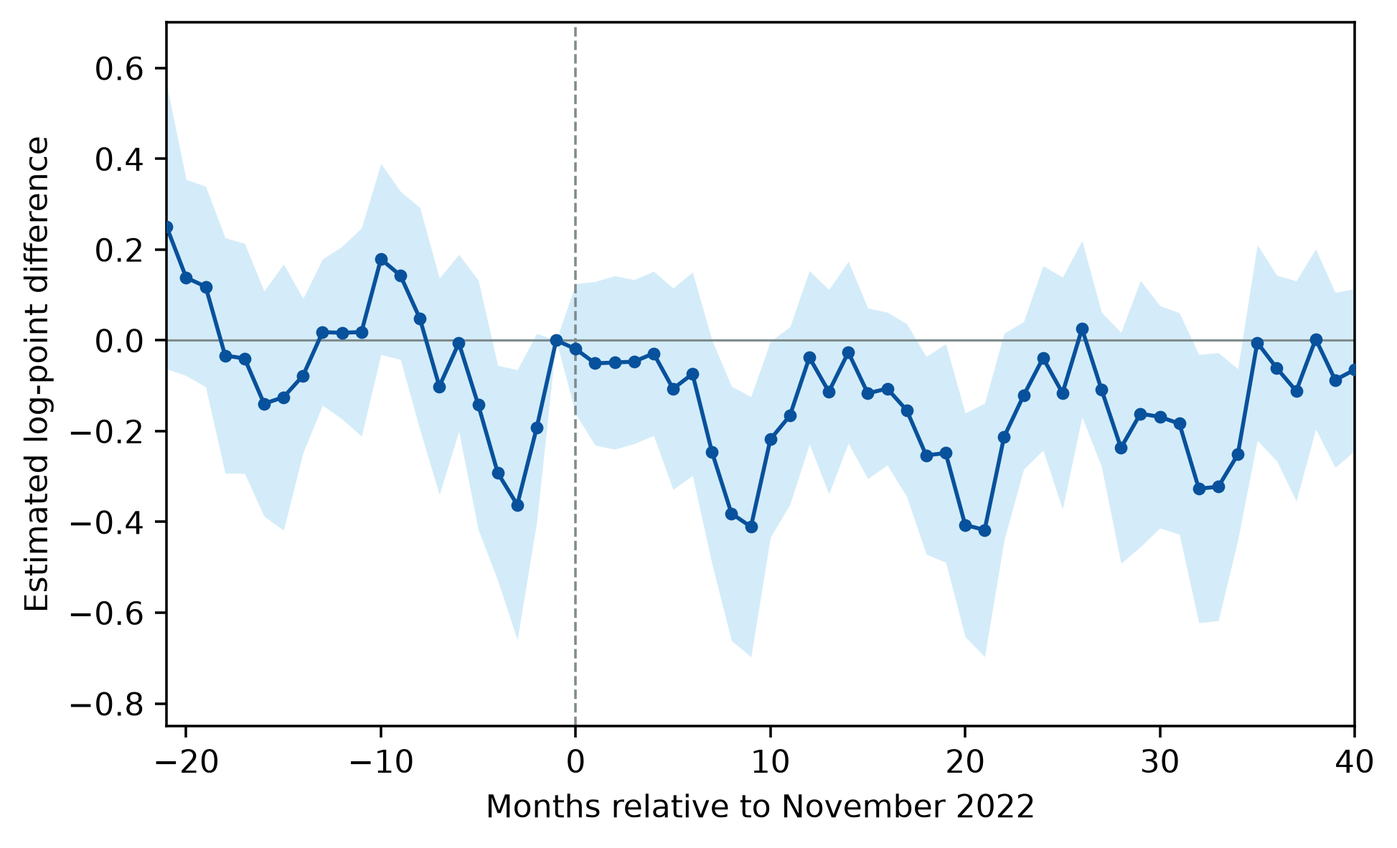
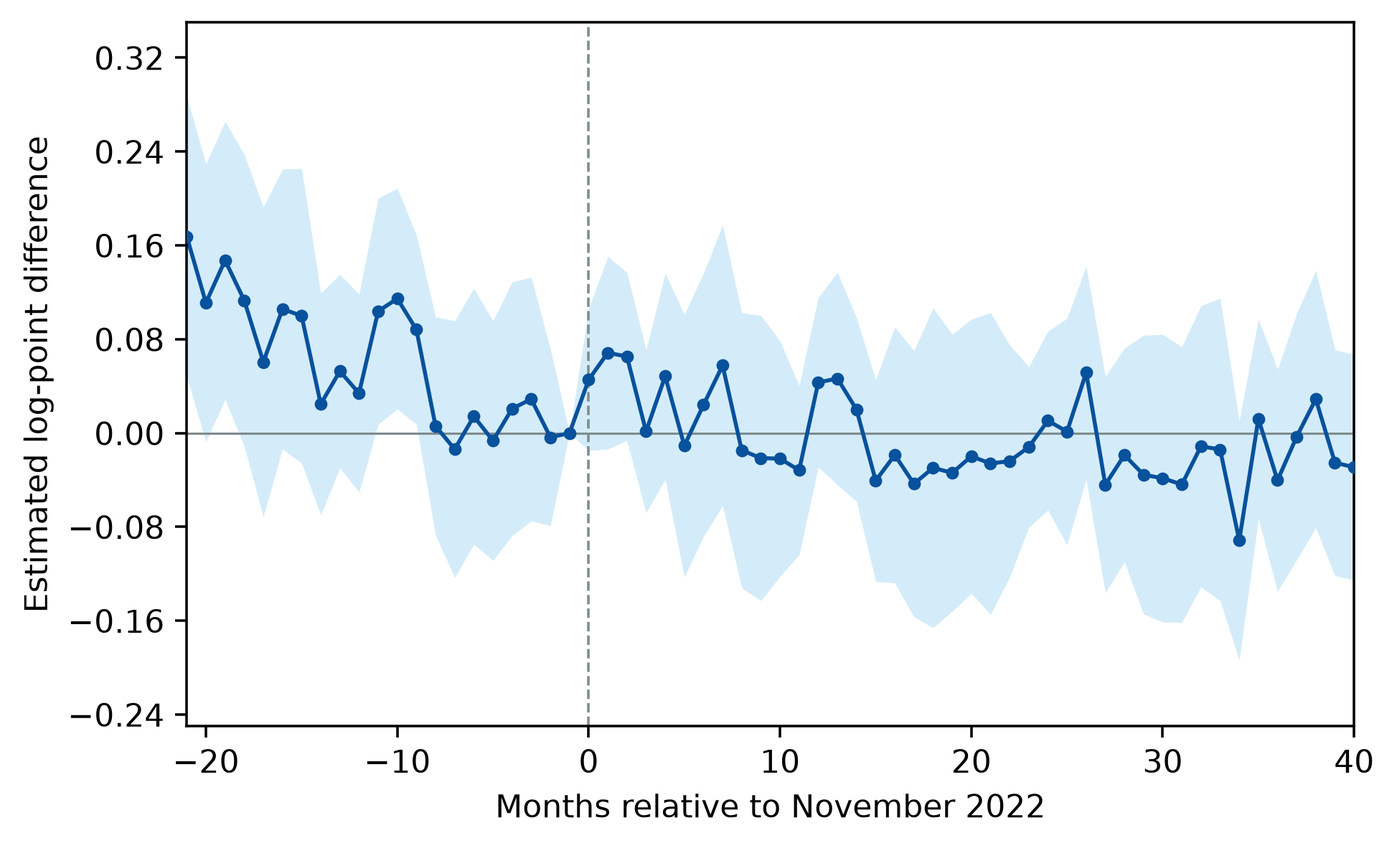
fix: re-estimate job tiers with tier 2 reference

diff --git a/paper/appendix_oe_jev_tiers.tex b/paper/appendix_oe_jev_tiers.tex
@@ -7,30 +7,30 @@ Tier 1 comprises jobs whose central output is a separable task or a weak bundle 
 
 As argued by \citet{garicano2026weak}, task bundling can offset the standard substitution channel through which AI takes over a task and reduces the revenue accruing to the worker. In strongly bundled occupations, AI can improve performance in one task while the worker retains the integrated job and a larger share of its revenue. The aggregate response of labor's share therefore depends partly on how costly it is to separate tasks within occupations: when strong bundles account for more employment, labor's share may be more resilient than task-exposure measures alone imply. This motivates examining whether post-release labor-market adjustment differs across job tiers.
 
-This empirical exercise uses a discrete DiD strategy where tier 1 and tier 2 occupations are considered the treatment groups while those in tier 3 are left as controls. Formally, the Jev categorization and treatment selection can be expressed as follows:
+This empirical exercise uses a discrete DiD strategy where tier 1 and tier 3 occupations are compared with tier 2 occupations, which form the reference group. Formally, the Jev categorization and treatment selection can be expressed as follows:
 
 Let $\tau_{jk}$ be Jev's probability for tier $k\in\{1,2,3\}$ in CNO4d occupation $j$. The assigned tier and treatment indicators are
 \begin{equation}
 \label{eq:v1_jev_tier_assignment}
-\widehat K_j=\arg\max_k\tau_{jk},\qquad D_j^r=\mathbf{1}\{\widehat K_j=r\},\quad r=1,2.
+\widehat K_j=\arg\max_k\tau_{jk},\qquad D_j^r=\mathbf{1}\{\widehat K_j=r\},\quad r\in\{1,3\}.
 \end{equation}
-Probability vectors are normalized after API rounding and ties in $\tau_{jk}$ select the smallest tier number. Tier 3 is the omitted control group.
+Probability vectors are normalized after API rounding and ties in $\tau_{jk}$ select the smallest tier number. Tier 2 is the omitted reference group.
 
 Similar to Section \ref{sec:empirical_model}, we estimate the following equation:
 
 \begin{equation}
-Y_{jt}=\mu_j+\delta_{g(j),t}+\beta^1_A D^1_jP^A_t+\beta^1_L D^1_jP^L_t+\beta^2_A D^2_jP^A_t+\beta^2_L D^2_jP^L_t+\nu_{jt}
+Y_{jt}=\mu_j+\delta_{g(j),t}+\beta^1_A D^1_jP^A_t+\beta^1_L D^1_jP^L_t+\beta^3_A D^3_jP^A_t+\beta^3_L D^3_jP^L_t+\nu_{jt}
 \label{eq:tier_static}
 \end{equation}
-where $\mu_j$ captures CNO4d occupation FE, $\delta_{g(j),t}$ denotes CNO1d-by-year-month FE, and $\nu_{jt}$ is the error term. $P^A_t$ and $P^L_t$ indicate the adjustment and later periods defined in Section~\ref{sec:empirical_model}. The coefficients measure changes for tiers 1 and 2 relative to tier 3, with standard errors clustered by CNO4d.
+where $\mu_j$ captures CNO4d occupation FE, $\delta_{g(j),t}$ denotes CNO1d-by-year-month FE, and $\nu_{jt}$ is the error term. $P^A_t$ and $P^L_t$ indicate the adjustment and later periods defined in Section~\ref{sec:empirical_model}. The coefficients measure changes for tiers 1 and 3 relative to tier 2, with standard errors clustered by CNO4d.
 
-Table~\ref{tab:v1_jev_job_tiers} presents the DiD results. For registered unemployment, column 1 reports negative coefficients for both tiers during the adjustment and later periods: \(-0.057\) and \(-0.122\) for tier 1, and \(-0.052\) and \(-0.100\) for tier 2. Restricting identification to within-CNO1d comparisons in column 2 attenuates the tier 1 coefficients to \(-0.001\) and \(-0.022\), and the tier 2 coefficients to \(-0.036\) and \(-0.097\). None of these preferred estimates is statistically distinguishable from zero. Excluding 2021 in column 3 leaves the signs negative, with coefficients of \(-0.031\) and \(-0.052\) for tier 1 and \(-0.056\) and \(-0.117\) for tier 2, again without statistically significant differences. The negative signs are consistent with lower registered unemployment in tiers 1 and 2 relative to tier 3, but the preferred specification does not establish such a response.
+Table~\ref{tab:v1_jev_job_tiers} presents the DiD results. For registered unemployment, column 1 reports coefficients of \(-0.006\) and \(-0.022\) for tier 1 and \(0.052\) and \(0.100\) for tier 3 during the adjustment and later periods, respectively. Restricting identification to within-CNO1d comparisons in column 2, the tier 1 coefficients are \(0.035\) and \(0.075\), both statistically significant, whereas the tier 3 estimates of \(0.036\) and \(0.097\) are not statistically distinguishable from zero. Excluding 2021 in column 3, the tier 1 coefficients are \(0.025\) and \(0.065\), with the latter statistically significant at the 5 percent level; the tier 3 estimates of \(0.056\) and \(0.117\) remain statistically insignificant. Thus, in the preferred specification, registered unemployment rises more in tier 1 than in tier 2, while the estimated differences for tier 3 are imprecise.
 
-The contract estimates display a similar attenuation. Column 4 reports coefficients of \(-0.221\) and \(-0.206\) for tier 1 and \(-0.106\) and \(-0.075\) for tier 2. Adding CNO1d-by-year-month FE in column 5 reduces their magnitudes to \(-0.135\) and \(-0.109\) for tier 1 and \(-0.078\) and \(-0.029\) for tier 2. The tier 1 adjustment-period estimate remains statistically significant at the 5 percent level. Excluding 2021 in column 6 further reduces the estimates to \(-0.089\) and \(-0.063\) for tier 1 and \(-0.067\) and \(-0.019\) for tier 2. None is statistically significant at the 5 percent level; only the tier 1 adjustment-period coefficient is significant at the 10 percent level, suggesting a possible reduction in new contracts after ChatGPT's release.
+The new-contract estimates show a different pattern. Column 4 reports coefficients of \(-0.116\) and \(-0.131\) for tier 1 and \(0.106\) and \(0.075\) for tier 3. Adding CNO1d-by-year-month FE in column 5, the tier 1 estimates are \(-0.057\) and \(-0.079\), both significant at the 5 percent level; the tier 3 estimates are \(0.078\) and \(0.029\), with only the adjustment-period coefficient significant at the 10 percent level. Excluding 2021 in column 6, neither tier's adjustment- or later-period estimates are statistically significant. In the preferred specification, tier 1 therefore experiences a relative decline in new contracts compared with tier 2, while the tier 3 differences are smaller and less precisely estimated.
 
-Figures~\ref{fig:v1_jev_tiers_unemployed} and~\ref{fig:v1_jev_tiers_contracts} report the corresponding event-study estimates. The pre-treatment coefficients do not remain consistently close to zero, providing less favorable evidence for the parallel-trends assumption than would be needed for a clear causal interpretation. The unemployment path is more stable for tier 2, but the joint pre-treatment test for both tiers rejects in the preferred full sample (\(p<0.001\)). Excluding 2021 improves the unemployment diagnostics, and the joint null cannot be rejected (\(p=0.475\)), although this does not establish parallel trends. For new contracts, the joint test rejects both with and without 2021 (\(p=0.037\) and \(p=0.049\), respectively). We therefore interpret the post-release coefficients cautiously as differences in occupational adjustment that may also reflect pre-existing trends.
+Figures~\ref{fig:v1_jev_tiers_unemployed} and~\ref{fig:v1_jev_tiers_contracts} report the corresponding event-study estimates relative to tier 2. The pre-treatment coefficients do not remain consistently close to zero, providing limited support for the parallel-trends assumption. The unemployment path is more stable for tier 1 than for tier 3, but the joint pre-treatment test for both comparisons rejects in the preferred full sample (\(p<0.001\)). Excluding 2021, the joint null cannot be rejected for unemployment (\(p=0.475\)), although this does not establish parallel trends. For new contracts, the joint test rejects both with and without 2021 (\(p=0.037\) and \(p=0.049\), respectively). We therefore interpret the post-release coefficients cautiously as differences in occupational adjustment that may also reflect pre-existing trends.
 
-The contrast between these negative, imprecise unemployment estimates and the positive exposure gradient in the baseline analysis could be tentatively consistent with the possibility that task bundling moderates adjustment to AI \citep{garicano2026weak}. However, the two exercises use different occupational comparisons, and the estimates in Table \ref{tab:v1_jev_job_tiers} do not clearly establish that stronger bundling protects jobs. Therefore, in order to test this mechanism, we complement these tier comparisons with a mediation exercise that conditions the baseline exposure gradient on job-tier dynamics. Table~\ref{tab:v1_job_tier_mediation} reproduces the preferred exposure specification and adds tier-by-year-month FE as controls, allowing each tier its own monthly path. For registered unemployment, the adjustment- and later-period coefficients decline from 0.012 and 0.017 to 0.010 and 0.012, respectively; neither adjusted estimate is statistically significant at the 5 percent level. For new contracts, the corresponding coefficients increase from 0.014 and 0.013 to 0.019 in both periods. The adjustment-period estimate is statistically significant at the 5 percent level, whereas the later estimate is significant at the 10 percent level. These changes suggest that tier-specific labor-market dynamics may account for part of the positive unemployment gradient and may mask a positive association between AI exposure and hiring. This pattern is consistent with the hypothesis of job bundling playing a role in occupational adjustment, although it does not identify which tier generates the change nor does it directly establish that stronger bundles protect jobs.
+The preferred tier comparisons show higher registered unemployment and fewer new contracts in tier 1 relative to tier 2, while the tier 3 differences are less precise. Given the pre-treatment evidence and the distinct occupational comparisons, these estimates do not establish that stronger bundling protects jobs. To examine whether tier-specific labor-market dynamics account for part of the baseline exposure gradient, we complement the tier comparisons with a mediation exercise. Table~\ref{tab:v1_job_tier_mediation} reproduces the preferred exposure specification and adds tier-by-year-month FE as controls, allowing each tier its own monthly path. For registered unemployment, the adjustment- and later-period coefficients decline from 0.012 and 0.017 to 0.010 and 0.012, respectively; neither adjusted estimate is statistically significant at the 5 percent level. For new contracts, the corresponding coefficients increase from 0.014 and 0.013 to 0.019 in both periods. The adjustment-period estimate is statistically significant at the 5 percent level, whereas the later estimate is significant at the 10 percent level. These changes suggest that tier-specific labor-market dynamics may account for part of the positive unemployment gradient and may mask a positive association between AI exposure and hiring. This pattern is consistent with the hypothesis of job bundling playing a role in occupational adjustment, although it does not identify which tier generates the change nor does it directly establish that stronger bundles protect jobs.
 
 \input{\tabdir/job_tiers_did_jev_v1.tex}
 \clearpage
@@ -40,16 +40,16 @@ The contrast between these negative, imprecise unemployment estimates and the po
 \label{fig:v1_jev_tiers_unemployed}
 \begin{subfigure}{0.70\textwidth}
 \includegraphics[width=\textwidth]{\figdir/JobTiers_unemployed_jev_tier1.png}
-\caption{Tier 1 relative to tier 3}
+\caption{Tier 1 relative to tier 2}
 \end{subfigure}
 \vspace{0.22cm}
 \begin{subfigure}{0.70\textwidth}
-\includegraphics[width=\textwidth]{\figdir/JobTiers_unemployed_jev_tier2.png}
-\caption{Tier 2 relative to tier 3}
+\includegraphics[width=\textwidth]{\figdir/JobTiers_unemployed_jev_tier3.png}
+\caption{Tier 3 relative to tier 2}
 \end{subfigure}
 \vspace{0.22cm}
 \begin{minipage}{0.94\textwidth}
-\footnotesize \emph{Notes:} Both tier paths are estimated jointly in one regression for the logarithm of registered unemployment. Tier 3 is the omitted control group. The specification includes CNO4 and CNO1-by-year-month FE. Coefficients are log-point differences, with no exposure scaling. October 2022 is the omitted reference month; the dashed line marks November 2022. Shaded areas are 95 percent confidence intervals with standard errors clustered by CNO4. Each graph uses its own vertical scale.
+\footnotesize \emph{Notes:} Both tier paths are estimated jointly in one regression for the logarithm of registered unemployment. Tier 2 is the omitted reference group. The specification includes CNO4 and CNO1-by-year-month FE. Coefficients are log-point differences, with no exposure scaling. October 2022 is the omitted reference month; the dashed line marks November 2022. Shaded areas are 95 percent confidence intervals with standard errors clustered by CNO4. Each graph uses its own vertical scale.
 \end{minipage}
 \end{figure}
 \clearpage
@@ -59,16 +59,16 @@ The contrast between these negative, imprecise unemployment estimates and the po
 \label{fig:v1_jev_tiers_contracts}
 \begin{subfigure}{0.70\textwidth}
 \includegraphics[width=\textwidth]{\figdir/JobTiers_contracts_jev_tier1.png}
-\caption{Tier 1 relative to tier 3}
+\caption{Tier 1 relative to tier 2}
 \end{subfigure}
 \vspace{0.22cm}
 \begin{subfigure}{0.70\textwidth}
-\includegraphics[width=\textwidth]{\figdir/JobTiers_contracts_jev_tier2.png}
-\caption{Tier 2 relative to tier 3}
+\includegraphics[width=\textwidth]{\figdir/JobTiers_contracts_jev_tier3.png}
+\caption{Tier 3 relative to tier 2}
 \end{subfigure}
 \vspace{0.22cm}
 \begin{minipage}{0.94\textwidth}
-\footnotesize \emph{Notes:} Both tier paths are estimated jointly in one regression for the logarithm of new contracts. Tier 3 is the omitted control group. The specification includes CNO4 and CNO1-by-year-month FE. Coefficients are log-point differences, with no exposure scaling. October 2022 is the omitted reference month; the dashed line marks November 2022. Shaded areas are 95 percent confidence intervals with standard errors clustered by CNO4. Each graph uses its own vertical scale.
+\footnotesize \emph{Notes:} Both tier paths are estimated jointly in one regression for the logarithm of new contracts. Tier 2 is the omitted reference group. The specification includes CNO4 and CNO1-by-year-month FE. Coefficients are log-point differences, with no exposure scaling. October 2022 is the omitted reference month; the dashed line marks November 2022. Shaded areas are 95 percent confidence intervals with standard errors clustered by CNO4. Each graph uses its own vertical scale.
 \end{minipage}
 \end{figure}
 \clearpage

diff --git a/code/lib/job_tiers.py b/code/lib/job_tiers.py
@@ -20,7 +20,7 @@ def build_job_tier_outputs(estimates_dir: str | Path, output_dir: str | Path,
         for spec in specs:
             phase = pd.read_csv(estimates / f"twfe_tier_phase_{spec}_{outcome}.csv")
             if len(phase) != 4 or set(zip(phase.tier, phase.phase)) != {
-                (tier, name) for tier in (1, 2) for name in ("adjustment", "later")
+                (tier, name) for tier in (1, 3) for name in ("adjustment", "later")
             }:
                 raise ValueError("Joint tier regression must contain exactly four unique coefficients")
             for name in ("observations", "clusters", "equality_p"):
@@ -42,7 +42,7 @@ def build_job_tier_outputs(estimates_dir: str | Path, output_dir: str | Path,
              r"\scriptsize", r"\setlength{\tabcolsep}{3.5pt}", r"\begin{tabular}{lcccccc}",
              r"\toprule", r"& \multicolumn{3}{c}{\# of registered unemployed} & \multicolumn{3}{c}{\# of new contracts} \\",
              r"\cmidrule(lr){2-4}\cmidrule(lr){5-7}", r"& (1) & (2) & (3) & (4) & (5) & (6) \\", r"\midrule"]
-    for tier in (1, 2):
+    for tier in (1, 3):
         for phase in ("adjustment", "later"):
             rows = [frame.loc[(tier, phase)] for frame, _ in columns]
             latex += [rf"Tier {tier} $\times$ {phase} period & " + " & ".join(
@@ -56,9 +56,9 @@ def build_job_tier_outputs(estimates_dir: str | Path, output_dir: str | Path,
               r"$p$-value: equal phase effects & " + " & ".join(format_p(float(frame.iloc[0].equality_p)) for frame, _ in columns) + r" \\",
               "Observations & " + " & ".join(f"{int(frame.iloc[0].observations):,}" for frame, _ in columns) + r" \\",
               r"\bottomrule", r"\end{tabular}", r"\begin{tablenotes}[flushleft]", r"\footnotesize",
-              r"\item \emph{Notes:} Each column reports one joint regression with tier 1 and tier 2 indicators interacted with both post-treatment phases; tier 3 is the omitted control group. The indicators use the frozen " +
+              r"\item \emph{Notes:} Each column reports one joint regression with tier 1 and tier 3 indicators interacted with both post-treatment phases; tier 2 is the omitted control group. The indicators use the frozen " +
               ("Jev" if model_family == "jev" else "TEV") +
-              r" occupation classification. The adjustment and later periods cover event times 0--24 and 25--40; all pre-treatment months form the omitted period. Columns 1 and 4 include CNO4 and year-month fixed effects; the remaining columns include CNO4 and CNO1-by-year-month fixed effects. Columns 3 and 6 exclude 2021. Standard errors are clustered by CNO4. The pre-treatment row jointly tests all available pre-treatment event-study coefficients for both tiers: event times $-21$ through $-2$ when 2021 is included and $-10$ through $-2$ otherwise; October 2022 is omitted. The phase-equality row jointly tests equality of adjustment and later coefficients for both tiers. Coefficients are log-point differences relative to tier 3, without exposure scaling. $^{***}p<0.01$, $^{**}p<0.05$, and $^{*}p<0.10$.",
+              r" occupation classification. The adjustment and later periods cover event times 0--24 and 25--40; all pre-treatment months form the omitted period. Columns 1 and 4 include CNO4 and year-month fixed effects; the remaining columns include CNO4 and CNO1-by-year-month fixed effects. Columns 3 and 6 exclude 2021. Standard errors are clustered by CNO4. The pre-treatment row jointly tests all available pre-treatment event-study coefficients for tiers 1 and 3: event times $-21$ through $-2$ when 2021 is included and $-10$ through $-2$ otherwise; October 2022 is omitted. The phase-equality row jointly tests equality of adjustment and later coefficients for tiers 1 and 3. Coefficients are log-point differences relative to tier 2, without exposure scaling. $^{***}p<0.01$, $^{**}p<0.05$, and $^{*}p<0.10$.",
               r"\end{tablenotes}", r"\end{threeparttable}", r"\end{table}"]
     table = output / f"job_tiers_did_{model_family}_v1.tex"
     table.write_text("\n".join(latex) + "\n", encoding="utf-8")
@@ -67,9 +67,9 @@ def build_job_tier_outputs(estimates_dir: str | Path, output_dir: str | Path,
     paths = {"table": table, "table_csv": csv}
     for outcome, variable, step in [("unemployed", "ln_parados", 0.025), ("contracts", "ln_contratos", 0.05)]:
         frame = pd.read_csv(estimates / f"twfe_tier_event_{model_family}_tiers_cno1_month_{variable}.csv")
-        if set(frame.tier) != {1, 2} or frame.duplicated(["tier", "event_time"]).any():
+        if set(frame.tier) != {1, 3} or frame.duplicated(["tier", "event_time"]).any():
             raise ValueError("Event-study file must contain both jointly estimated tier paths")
-        for tier in (1, 2):
+        for tier in (1, 3):
             numeric = output / f"JobTiers_{outcome}_{model_family}_tier{tier}.csv"
             frame.loc[frame.tier.eq(tier)].to_csv(numeric, index=False)
             figure = numeric.with_suffix(".png")

diff --git a/output/tables/job_tiers_did_jev_v1.tex b/output/tables/job_tiers_did_jev_v1.tex
@@ -11,13 +11,13 @@
 \cmidrule(lr){2-4}\cmidrule(lr){5-7}
 & (1) & (2) & (3) & (4) & (5) & (6) \\
 \midrule
-Tier 1 $\times$ adjustment period & -0.057$^{**}$ & -0.001 & -0.031 & -0.221$^{***}$ & -0.135$^{***}$ & -0.089$^{*}$ \\
- & (0.026) & (0.041) & (0.037) & (0.032) & (0.050) & (0.045) \\
-Tier 1 $\times$ later period & -0.122$^{**}$ & -0.022 & -0.052 & -0.206$^{***}$ & -0.109 & -0.063 \\
- & (0.052) & (0.084) & (0.079) & (0.045) & (0.072) & (0.077) \\
-Tier 2 $\times$ adjustment period & -0.052$^{**}$ & -0.036 & -0.056 & -0.106$^{***}$ & -0.078$^{*}$ & -0.067 \\
+Tier 1 $\times$ adjustment period & -0.006 & 0.035$^{**}$ & 0.025 & -0.116$^{***}$ & -0.057$^{**}$ & -0.022 \\
+ & (0.013) & (0.016) & (0.015) & (0.023) & (0.029) & (0.026) \\
+Tier 1 $\times$ later period & -0.022 & 0.075$^{***}$ & 0.065$^{**}$ & -0.131$^{***}$ & -0.079$^{**}$ & -0.044 \\
+ & (0.023) & (0.029) & (0.028) & (0.029) & (0.037) & (0.036) \\
+Tier 3 $\times$ adjustment period & 0.052$^{**}$ & 0.036 & 0.056 & 0.106$^{***}$ & 0.078$^{*}$ & 0.067 \\
  & (0.026) & (0.039) & (0.035) & (0.031) & (0.045) & (0.042) \\
-Tier 2 $\times$ later period & -0.100$^{*}$ & -0.097 & -0.117 & -0.075$^{*}$ & -0.029 & -0.019 \\
+Tier 3 $\times$ later period & 0.100$^{*}$ & 0.097 & 0.117 & 0.075$^{*}$ & 0.029 & 0.019 \\
  & (0.051) & (0.078) & (0.074) & (0.045) & (0.067) & (0.072) \\
 \midrule
 CNO1 $\times$ year-month FE & No & Yes & Yes & No & Yes & Yes \\
@@ -29,7 +29,7 @@ Observations & 31,122 & 31,122 & 25,600 & 30,787 & 30,786 & 25,317 \\
 \end{tabular}
 \begin{tablenotes}[flushleft]
 \footnotesize
-\item \emph{Notes:} Each column reports one joint regression with tier 1 and tier 2 indicators interacted with both post-treatment phases; tier 3 is the omitted control group. The indicators use the frozen Jev occupation classification. The adjustment and later periods cover event times 0--24 and 25--40; all pre-treatment months form the omitted period. Columns 1 and 4 include CNO4 and year-month FE; the remaining columns include CNO4 and CNO1-by-year-month FE. Columns 3 and 6 exclude 2021. Standard errors are clustered by CNO4. The pre-treatment row jointly tests all available pre-treatment event-study coefficients for both tiers: event times $-21$ through $-2$ when 2021 is included and $-10$ through $-2$ otherwise; October 2022 is omitted. The phase-equality row jointly tests equality of adjustment and later coefficients for both tiers. Coefficients are log-point differences relative to tier 3, without exposure scaling. $^{***}p<0.01$, $^{**}p<0.05$, and $^{*}p<0.10$.
+\item \emph{Notes:} Each column reports one joint regression with tier 1 and tier 3 indicators interacted with both post-treatment phases; tier 2 is the omitted control group. The indicators use the frozen Jev occupation classification. The adjustment and later periods cover event times 0--24 and 25--40; all pre-treatment months form the omitted period. Columns 1 and 4 include CNO4 and year-month fixed effects; the remaining columns include CNO4 and CNO1-by-year-month fixed effects. Columns 3 and 6 exclude 2021. Standard errors are clustered by CNO4. The pre-treatment row jointly tests all available pre-treatment event-study coefficients for tiers 1 and 3: event times $-21$ through $-2$ when 2021 is included and $-10$ through $-2$ otherwise; October 2022 is omitted. The phase-equality row jointly tests equality of adjustment and later coefficients for tiers 1 and 3. Coefficients are log-point differences relative to tier 2, without exposure scaling. $^{***}p<0.01$, $^{**}p<0.05$, and $^{*}p<0.10$.
 \end{tablenotes}
 \end{threeparttable}
 \end{table}

diff --git a/code/lib/job_tier_mediation.py b/code/lib/job_tier_mediation.py
@@ -59,7 +59,7 @@ def render_table(estimates: Path, diagnostics: Path) -> str:
         r"Pre-treatment joint-null $p$-value & " + " & ".join(p_text(pre[y, s]["p_value"]) for y, s in columns) + r" \\",
         r"Observations & " + " & ".join(f"{int(results[y, s, 'dose_adjustment']['observations']):,}" for y, s in columns) + r" \\",
         r"\bottomrule", r"\end{tabular}", r"\begin{tablenotes}[flushleft]", r"\footnotesize",
-        r"\item \emph{Notes:} Columns 1 and 3 reproduce the preferred specifications in columns 2 and 5 of Table~\ref{tab:v1_main_effects}. Columns 2 and 4 additionally include tier-by-year-month FE, allowing each Jev job tier its own monthly path. CNO1-by-year-month and tier-by-year-month FE enter additively. Tier 3 is the reference category for an equivalent explicit tier-interaction representation; adding all three tiers' interactions would be collinear with the time FE. Time-invariant tier indicators are absorbed by CNO4 FE. All columns use the same outcome-specific sample and include CNO4 and CNO1-by-year-month FE. The dependent variables are logarithms. The adjustment period is November 2022--November 2024 (event times 0--24), and the later period is December 2024--March 2026 (event times 25--40); all available pre-treatment months form the omitted category. Exposure is divided by 0.10, so coefficients correspond to a 10 percentage-point increase. Parenthesized standard errors are clustered by CNO4 (502 clusters). The equality row tests whether the two exposure coefficients are equal. The pre-treatment joint-null row reports the clustered Wald test that all exposure event-study coefficients at event times $-21$ through $-2$ equal zero, with October 2022 omitted, using each column's FE and sample. $^{***}p<0.01$, $^{**}p<0.05$, and $^{*}p<0.10$.",
+        r"\item \emph{Notes:} Columns 1 and 3 reproduce the preferred specifications in columns 2 and 5 of Table~\ref{tab:v1_main_effects}. Columns 2 and 4 additionally include tier-by-year-month FE, allowing each Jev job tier its own monthly path. CNO1-by-year-month and tier-by-year-month FE enter additively. Tier 2 is the reference category for an equivalent explicit tier-interaction representation; adding all three tiers' interactions would be collinear with the time FE. Time-invariant tier indicators are absorbed by CNO4 FE. All columns use the same outcome-specific sample and include CNO4 and CNO1-by-year-month FE. The dependent variables are logarithms. The adjustment period is November 2022--November 2024 (event times 0--24), and the later period is December 2024--March 2026 (event times 25--40); all available pre-treatment months form the omitted category. Exposure is divided by 0.10, so coefficients correspond to a 10 percentage-point increase. Parenthesized standard errors are clustered by CNO4 (502 clusters). The equality row tests whether the two exposure coefficients are equal. The pre-treatment joint-null row reports the clustered Wald test that all exposure event-study coefficients at event times $-21$ through $-2$ equal zero, with October 2022 omitted, using each column's FE and sample. $^{***}p<0.01$, $^{**}p<0.05$, and $^{*}p<0.10$.",
         r"\end{tablenotes}", r"\end{threeparttable}", r"\end{table}",
     ])
     return "\n".join(lines) + "\n"

diff --git a/output/tables/job_tier_mediation_v1.tex b/output/tables/job_tier_mediation_v1.tex
@@ -25,7 +25,7 @@ Observations & 31,122 & 31,122 & 30,786 & 30,786 \\
 \end{tabular}
 \begin{tablenotes}[flushleft]
 \footnotesize
-\item \emph{Notes:} Columns 1 and 3 reproduce the preferred specifications in columns 2 and 5 of Table~\ref{tab:v1_main_effects}. Columns 2 and 4 additionally include tier-by-year-month FE, allowing each Jev job tier its own monthly path. CNO1-by-year-month and tier-by-year-month FE enter additively. Tier 3 is the reference category for an equivalent explicit tier-interaction representation; adding all three tiers' interactions would be collinear with the time FE. Time-invariant tier indicators are absorbed by CNO4 FE. All columns use the same outcome-specific sample and include CNO4 and CNO1-by-year-month FE. The dependent variables are logarithms. The adjustment period is November 2022--November 2024 (event times 0--24), and the later period is December 2024--March 2026 (event times 25--40); all available pre-treatment months form the omitted category. Exposure is divided by 0.10, so coefficients correspond to a 10 percentage-point increase. Parenthesized standard errors are clustered by CNO4 (502 clusters). The equality row tests whether the two exposure coefficients are equal. The pre-treatment joint-null row reports the clustered Wald test that all exposure event-study coefficients at event times $-21$ through $-2$ equal zero, with October 2022 omitted, using each column's FE and sample. $^{***}p<0.01$, $^{**}p<0.05$, and $^{*}p<0.10$.
+\item \emph{Notes:} Columns 1 and 3 reproduce the preferred specifications in columns 2 and 5 of Table~\ref{tab:v1_main_effects}. Columns 2 and 4 additionally include tier-by-year-month FE, allowing each Jev job tier its own monthly path. CNO1-by-year-month and tier-by-year-month FE enter additively. Tier 2 is the reference category for an equivalent explicit tier-interaction representation; adding all three tiers' interactions would be collinear with the time FE. Time-invariant tier indicators are absorbed by CNO4 FE. All columns use the same outcome-specific sample and include CNO4 and CNO1-by-year-month FE. The dependent variables are logarithms. The adjustment period is November 2022--November 2024 (event times 0--24), and the later period is December 2024--March 2026 (event times 25--40); all available pre-treatment months form the omitted category. Exposure is divided by 0.10, so coefficients correspond to a 10 percentage-point increase. Parenthesized standard errors are clustered by CNO4 (502 clusters). The equality row tests whether the two exposure coefficients are equal. The pre-treatment joint-null row reports the clustered Wald test that all exposure event-study coefficients at event times $-21$ through $-2$ equal zero, with October 2022 omitted, using each column's FE and sample. $^{***}p<0.01$, $^{**}p<0.05$, and $^{*}p<0.10$.
 \end{tablenotes}
 \end{threeparttable}
 \end{table}
